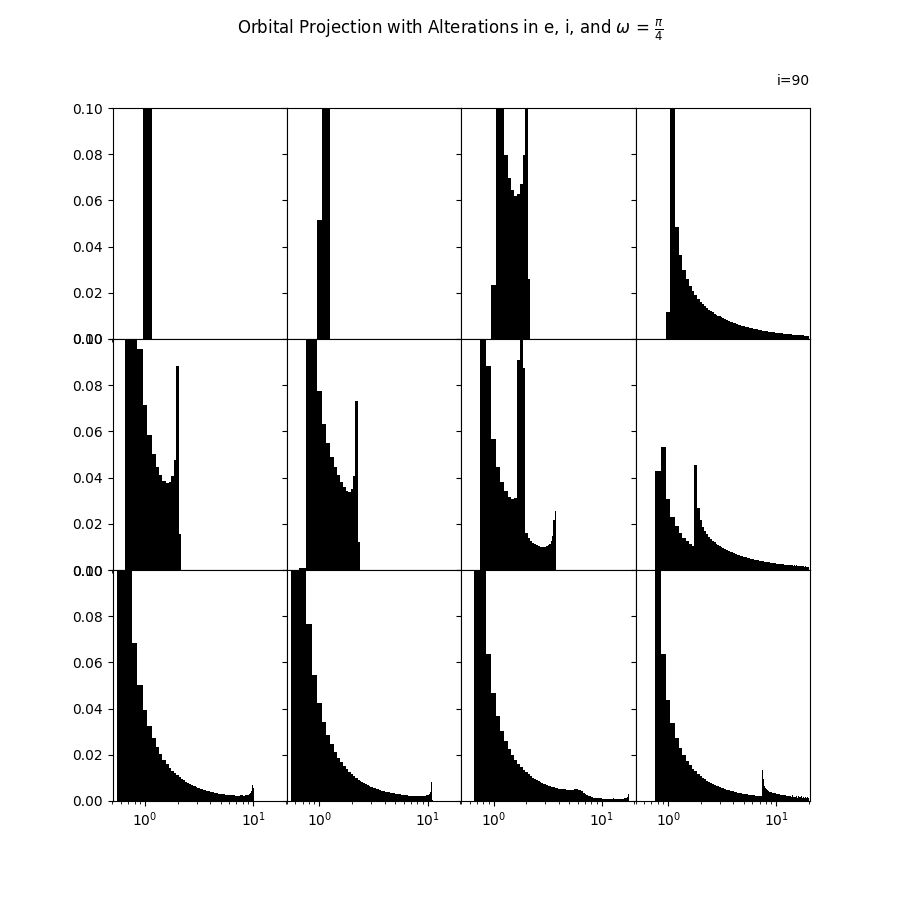
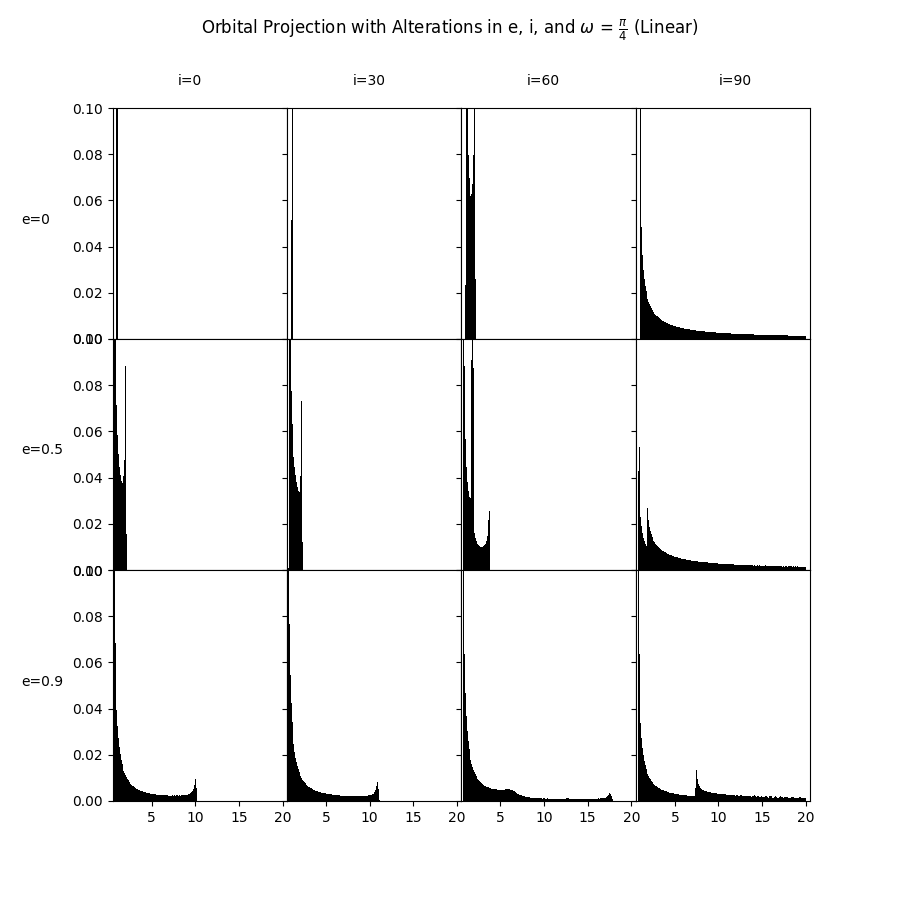
Added Functionality to allow for changing between Linear and Log steps in a for the program

diff --git a/Sep.py b/Sep.py
@@ -249,9 +249,6 @@ def OrbGeoAlt(t0=0.0, a=1.0, w = 0.0, W = 0.0, i = 0.0, e = 0.0):
     xt = A * Xt + F * Yt
     yt = B * Xt + G * Yt
     
-    # ONLY USE IF SYSTEM DOESN'T HAVE ENOUGH MEMORY
-    # 
-    # gc.collect()
     return (xt, yt, phi)
 
 def Velocity(param):
@@ -375,15 +372,15 @@ def Rchange(param, coords = False):
     xlist = []
     ylist = []
     r0 = 1 # Einstein Ring Radius
-    e, i, w, end, step = param
+    e, i, w, end, step, Linear = param
     
-    # steps = np.linspace(0, 10000,10000)
-    
-    # loga = np.log10(0.5) + steps/10000 * (np.log10(end)-np.log10(0.5))
-    
-    # stepthrough = 10**loga
-    
-    stepthrough = np.arange(0.5, end + step, step)
+    if Linear == True:
+        stepthrough = np.arange(0.5, end + step, step)
+    elif Linear == False:
+        
+        steps = np.linspace(0, 10000,10000)
+        loga = np.log10(0.5) + steps/10000 * (np.log10(end)-np.log10(0.5))
+        stepthrough = 10**loga 
    
     for val in stepthrough:
         x, y, t = OrbGeoAlt(a = val, e = e, i = i ,w = w)
@@ -391,13 +388,13 @@ def Rchange(param, coords = False):
         r = np.sqrt(x**2+y**2)
 
         if coords == False:
-            # if np.any(np.abs(r-r0)<=0.01):
-            #     rlist.append(val)
             rlist.append(np.where(np.abs(r-r0)<=0.01, val, 0))
         else: 
             rlist.append(np.where(np.abs(r-r0)<=0.01, val, 0))
             xlist.append(np.where(np.abs(r-r0)<=0.01, x, None))
-            ylist.append(np.where(np.abs(r-r0)<=0.01, y, None))            
+            ylist.append(np.where(np.abs(r-r0)<=0.01, y, None))
+    
+    gc.collect()            
     return rlist, xlist, ylist
 
 def DataProj(t0 = 0.0, a=1.0, w = 0.0, W = 0.0, i = 0.0, e = 0.0, startinga = 1.25):
@@ -785,17 +782,20 @@ def DataProj(t0 = 0.0, a=1.0, w = 0.0, W = 0.0, i = 0.0, e = 0.0, startinga = 1.
     ]
     return totlist, totparam, listt
 
-def DataHist(w = 0, step = 0.001, end = 10):
+def DataHist(w = 0, step = 0.001, end = 10, Linear = True):
     """
     """
-    
+    if Linear == True:
+        Linear = True
+    else:
+        Linear = False
     param = [
     # Row 1
-    (0 , 0, w, end, step), (0, np.pi/6, w, end, step), (0, np.pi/3, w, end, step), (0, np.pi/2, w, end, step),
+    (0 , 0, w, end, step, Linear), (0, np.pi/6, w, end, step, Linear), (0, np.pi/3, w, end, step, Linear), (0, np.pi/2, w, end, step, Linear),
     # Row 2
-    (0.5, 0, w, end, step), (0.5, np.pi/6, w, end, step), (0.5, np.pi/3, w, end, step), (0.5, np.pi/2, w, end, step),
+    (0.5, 0, w, end, step, Linear), (0.5, np.pi/6, w, end, step, Linear), (0.5, np.pi/3, w, end, step, Linear), (0.5, np.pi/2, w, end, step, Linear),
     # Row 3
-    (0.9, 0, w, end, step), (0.9, np.pi/6, w, end, step), (0.9, np.pi/3, w, end, step), (0.9, np.pi/2, w, end, step)
+    (0.9, 0, w, end, step, Linear), (0.9, np.pi/6, w, end, step, Linear), (0.9, np.pi/3, w, end, step, Linear), (0.9, np.pi/2, w, end, step, Linear)
         
     ]
     
@@ -988,17 +988,20 @@ def MultiPlotProj(t0 = 0.0, a=1.0, w = 0.0, W = 0.0, i = 0.0, e = 0.0, startinga
     
     return rlist
 
-def MultiPlotHist(w = 0, step = 0.001, end = 10):
+def MultiPlotHist(w = 0, step = 0.001, end = 10, Linear = True):
     """
     """
     
     
     
-    totlist = DataHist(w = w, step = step, end = end)
+    totlist = DataHist(w = w, step = step, end = end, Linear = Linear)
     
     
     fig, axs = plt.subplots(3,4, figsize = (9,9), sharex=True,sharey=True,gridspec_kw=dict(hspace=0,wspace=0))               
-    fig.suptitle("Orbital Projection with Alterations in e, i, and "r"$\omega$ = $\frac{\pi}{4}$")
+    if Linear == True:
+        fig.suptitle("Orbital Projection with Alterations in e, i, and "r"$\omega$ = $\frac{\pi}{4}$ (Linear)")
+    else:
+        fig.suptitle("Orbital Projection with Alterations in e, i, and "r"$\omega$ = $\frac{\pi}{4}$ (Log)")
     # Iterates through each subplot in the 3x3 figure
     
     for j, ax  in enumerate(axs.flatten()):
@@ -1017,7 +1020,8 @@ def MultiPlotHist(w = 0, step = 0.001, end = 10):
             patch.set_facecolor("black")
         ax.set_xlim(0.5,20.5)
         ax.set_ylim(0,0.1)
-        ax.set_xscale("log")
+        if Linear == False:
+            ax.set_xscale("log")
     
     plt.text(-70,0.25,"e=0")
     plt.text(-70,0.15,"e=0.5")
@@ -1026,14 +1030,17 @@ def MultiPlotHist(w = 0, step = 0.001, end = 10):
     plt.text(-32,0.31,"i=30")
     plt.text(-12,0.31,"i=60")
     plt.text(10, 0.31,"i=90")
-    plt.savefig('/College Projects/Microlensing Separation/Figures/MultiHist_omega_pi_4_0001.png')
+    if Linear == True:
+        plt.savefig('/College Projects/Microlensing Separation/Figures/MultiHist_omega_pi_4_0001_Linear.png')
+    else:
+        plt.savefig('/College Projects/Microlensing Separation/Figures/MultiHist_omega_pi_4_0001_Log.png')
     plt.show()
     return iterlist
 
 
 if __name__ == "__main__":
     # rlist = MultiPlotProj(w = np.pi/4., startinga= 20)
-    rtemp = MultiPlotHist(w = np.pi/4, step = 0.001, end = 20)
+    rtemp = MultiPlotHist(w = np.pi/4, step = 0.001, end = 20, Linear = True)
 
 # x,y,t = OrbGeoAlt(a=1, e=0.0,w=np.pi/4, i = np.pi/6)
 # param = [0.5, 0.5, np.pi/2, 0]

diff --git a/example.py b/example.py
@@ -76,7 +76,5 @@ import numpy as np
 # # Create the legend using the patch objects and the captured line object
 # fig.legend([Circ1, Circ2, Circ3, line_handle], ["a = 0.5", "a = 1", "a = 1.5", "Observed Orbit"], loc='upper right')
 # plt.show()
-j = np.arange(0.5,20.5,0.5)
-g = [0.5, 1, 1.5, 2, 2.5, 3, 3.5]
-label = [f"a = {string}" for string in j]
-print(label)
+logbins = np.logspace(0.5,20,200)
+print(logbins)
